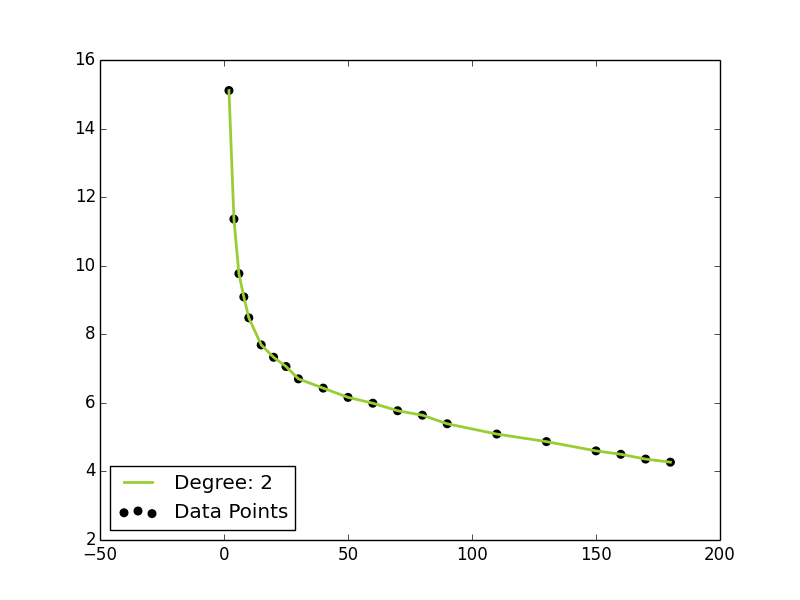
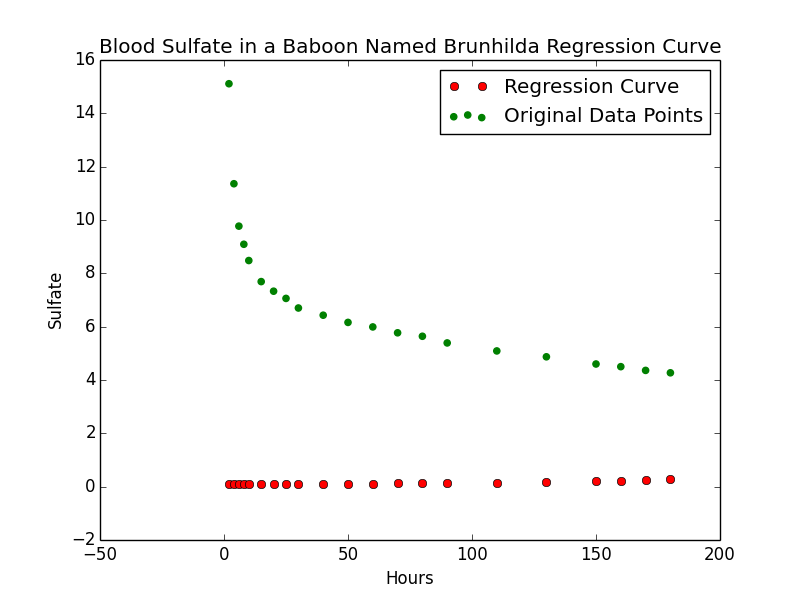
Fixing Bugs in Plots

diff --git a/Problem7.9.py b/Problem7.9.py
@@ -1,8 +1,12 @@
 import pandas
 import numpy
+import math
 
 # For linear regression
 from sklearn import linear_model
+
+# For transformations
+from scipy import stats
 
 # For polynomial regression
 from sklearn.linear_model import Ridge
@@ -14,6 +18,48 @@ import plotly.plotly as py
 import plotly.graph_objs as go
 import matplotlib.pyplot as plt
 
+
+def regress_curve_2():
+	filename = "sulfate_dataset.txt"
+	my_data = pandas.read_csv(filename, sep="\t", header=0)
+
+	x = my_data["Hours"].values
+	y = my_data["Sulfate"].values
+
+	# Box Cox Transformtaion on Y
+	y_transformed, lamb = stats.boxcox(y)		
+	y = y.reshape(-1, 1)
+	x = x.reshape(-1, 1)
+
+	model = linear_model.LinearRegression()
+	model.fit(x, y)
+
+	print lamb				# lamb = -1.10251654861
+	print model.coef_		# [[-0.00061966]]
+	
+	# Predict y
+	y_predicted = model.predict(x)
+	
+	# Transform the predicted y
+	y_predicted_transformed = numpy.array([math.pow(y_predicted[i][0], lamb) for i in range(len(y))]).reshape(-1, 1)
+
+	plt.scatter(x, y, color='green', label="Original Data Points")	# Original data points transformed
+	plt.plot(x, y_predicted_transformed, 'o', color='red', label="Regression Curve")								# plot predicted y vs x curve
+	plt.title("Blood Sulfate in a Baboon Named Brunhilda Regression Curve")
+	plt.ylabel("Sulfate")
+	plt.xlabel("Hours")
+	plt.legend(loc='upper right')
+	plt.show()
+	
+
+	residual = y - y_predicted_transformed
+	plt.scatter(y, residual, color='green')
+	plt.title("Residual Against Fitted Values")
+	plt.ylabel("Residual Error")
+	plt.xlabel("Fitted Values")
+	plt.show()
+
+# Delete this
 def regress_curve():
 	filename = "sulfate_dataset.txt"
 	my_data = pandas.read_csv(filename, sep="\t", header=0)
@@ -77,9 +123,11 @@ def regress_log_log():
 	plt.show()
 
 def main():
-	regress_log_log()
+	#regress_log_log()
 
-	regress_curve()
+	#regress_curve()
+
+	regress_curve_2()
 
 if __name__ == '__main__':
 	main()

diff --git a/Problem7.11.py b/Problem7.11.py
@@ -1,0 +1,67 @@
+import pandas
+import numpy
+
+# For linear regression
+from sklearn import linear_model
+
+# FOr plotting
+import matplotlib.pyplot as plt
+
+def basic_regression():
+	filename = "abalone_dataset.txt"
+	my_data = pandas.read_csv(filename, sep=",", usecols = [1, 2, 3, 4, 5, 6, 7, 8])
+
+	x_values = my_data[[0, 1, 2, 3, 4, 5, 6]].values
+	y_values = my_data[[7]].values
+
+	# Dataset description says add 1.5 to get age in year
+	y_values = y_values + 1.5
+
+	model = linear_model.LinearRegression()
+	model.fit(x_values, y_values)
+
+	print model.coef_	# [[ -1.51186355  13.25861227  11.90036056   9.23991828 -20.20887007	-9.8080347    8.58703255]]
+
+	residual = y_values - model.predict(x_values)
+	plt.scatter(y_values, residual, color='green')
+	plt.title("Residual Against Fitted Values Without Gender")
+	plt.ylabel("Residual Error")
+	plt.xlabel("Age (In Years)")
+	plt.show()
+
+def regression_with_gender():
+	filename = "abalone_dataset.txt"
+	my_data = pandas.read_csv(filename, sep=",")
+
+	# Convert Gender to numerical values
+	my_data.replace("F", 1, inplace="True")
+	my_data.replace("M", -1, inplace="True")
+	my_data.replace("I", 0, inplace="True")
+
+	x_values = my_data[[0, 1, 2, 3, 4, 5, 6, 7]].values
+	y_values = my_data[[8]].values
+
+	# Dataset description says add 1.5 to get age in year
+	y_values = y_values + 1.5
+
+	model = linear_model.LinearRegression()
+	model.fit(x_values, y_values)
+
+	print model.coef_		# [[ -0.06164878  -1.51755916  13.31723051  11.93677868   9.24296413	-20.273804    -9.74184398   8.5911218 ]]
+
+	residual = y_values - model.predict(x_values)
+	plt.scatter(y_values, residual, color='green')
+	plt.title("Residual Against Fitted Values With Gender")
+	plt.ylabel("Residual Error")
+	plt.xlabel("Age (In Years)")
+	plt.show()
+
+def main():
+	# Part a
+	#basic_regression()
+
+	# part b
+	#regression_with_gender()
+
+if __name__ == '__main__':
+	main()

diff --git a/Problem7.10.py b/Problem7.10.py
@@ -18,6 +18,14 @@ def linear_reg():
 	filename = "physical.txt"
 	my_data = pandas.read_csv(filename, sep="\t", header=0)
 
+	#x_values = my_data[:, 1:11].values
+	y_values = my_data["Mass"].values.reshape(-1, 1)
+	#print x_values
+	print y_values
+
+	#model = linear_model.LinearRegression()
+	#model.fit(x_values, y_values)
+
 
 def cube_root_reg():
 	filename = "sulfate_dataset.txt"
